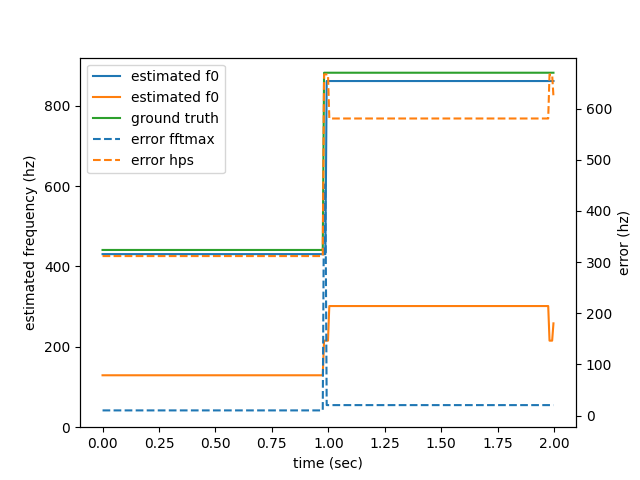
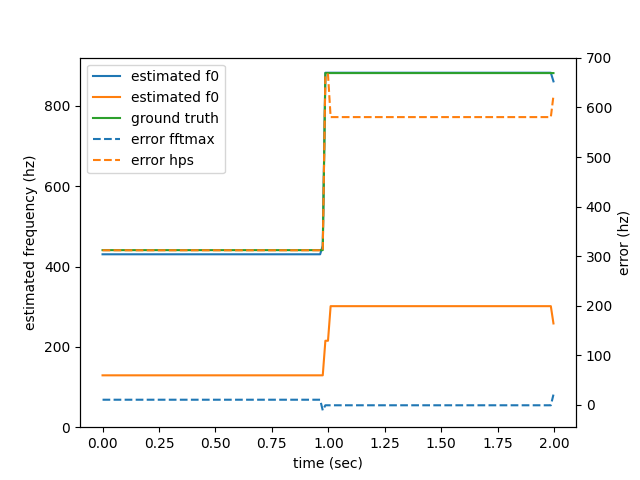
final

diff --git a/ass3solution.py b/ass3solution.py
@@ -4,6 +4,7 @@ import scipy.io.wavfile
 import scipy.signal
 from matplotlib import pyplot as plt
 import os.path
+import math
 from glob import glob
 
 T = np.ndarray  # for autocomplete engine, will be deleted before submission
@@ -12,26 +13,22 @@ HOP_SIZE = BLOCK_SIZE >> 1
 DB_TRUNCATION_THRESHOLD = -100
 
 
-# proudly plagiarized myself, again, by simply copying from assg 1.
-def block_audio(x, blockSize, hopSize, fs) -> Tuple[T, T]:
-    """plain implementation of spliting input signal into blocks of frames."""
+def  block_audio(x,blockSize,hopSize,fs):
+    # allocate memory
+    numBlocks = math.ceil(x.size / hopSize)
+    xb = np.zeros([numBlocks, blockSize])
+    # compute time stamps
+    t = (np.arange(0, numBlocks) * hopSize) / fs
 
-    # equivalent to num_of_blocks = ceil(x / hopSize)
-    num_of_blocks = len(x) // hopSize
-    if len(x) % hopSize:
-        num_of_blocks += 1
-    x = np.pad(x, (0, (num_of_blocks - 1) * hopSize + blockSize - len(x)))
+    x = np.concatenate((x, np.zeros(blockSize)),axis=0)
 
-    xb = np.zeros((num_of_blocks, blockSize))
-    time_in_sec = np.zeros((num_of_blocks,))
+    for n in range(0, numBlocks):
+        i_start = n * hopSize
+        i_stop = np.min([x.size - 1, i_start + blockSize - 1])
 
-    for i in range(num_of_blocks):
-        # i-th block
-        l = i * hopSize
-        time_in_sec[i] = l / fs
-        xb[i] = x[l : l + blockSize]
+        xb[n][np.arange(0,blockSize)] = x[np.arange(i_start, i_stop + 1)]
 
-    return xb, time_in_sec
+    return (xb,t)
 
 
 # plagiarized from alex
@@ -124,19 +121,40 @@ def get_f0_from_Hps(X, fs, order):
 
 # --- B.2 ---
 def track_pitch_hps(x, blockSize, hopSize, fs):
-    xb, time_in_sec = block_audio(x, blockSize, hopSize, fs)
-    Xb, f_in_hz = compute_spectrogram(xb, fs)
+    hp_filter = scipy.signal.butter(
+        N=20, Wn=50, btype="highpass", output="sos", fs=fs
+    )
+    hp_x = scipy.signal.sosfilt(hp_filter, x)
+    xb, timeInSec = block_audio(hp_x, blockSize, hopSize, fs)
+    Xb, fInHz = compute_spectrogram(xb, fs)
     f0 = get_f0_from_Hps(Xb, fs, order=4)
-    return f0, time_in_sec
+    return f0, timeInSec
 
 
 # --- C.1 ---
 def extract_rms(xb):
-    rms = np.maximum(
-        20 * np.log10(np.sqrt(np.mean(xb ** 2, axis=-1))),
-        DB_TRUNCATION_THRESHOLD,
-    )
-    return rms
+    return (FeatureTimeRms(xb))
+
+
+def FeatureTimeRms(xb):
+
+    # number of results
+    numBlocks = xb.shape[0]
+
+    # allocate memory
+    vrms = np.zeros(numBlocks)
+
+    for n in range(0, numBlocks):
+        # calculate the rms
+        vrms[n] = np.sqrt(np.dot(xb[n,:], xb[n,:]) / xb.shape[1])
+
+    # convert to dB
+    epsilon = 1e-5  # -100dB
+
+    vrms[vrms < epsilon] = epsilon
+    vrms = 20 * np.log10(vrms)
+
+    return (vrms)
 
 
 # --- C.2 ---
@@ -168,11 +186,7 @@ def eval_voiced_fn(estimation, annotation):
 # --- D.3 ---
 def eval_pitchtrack_v2(estimation, annotation):
     # return RMS of cent
-    err_cent_rms = 0
-    for a, b in zip(estimation, annotation):
-        if a and b:
-            err_cent_rms += (1200 * np.log2(a / b)) ** 2
-    err_cent_rms = (err_cent_rms / len(estimation)) ** 0.5
+    err_cent_rms = eval_pitchtrack(estimation, annotation)
     pfp = eval_voiced_fp(estimation, annotation)
     pfn = eval_voiced_fn(estimation, annotation)
     return err_cent_rms, pfp, pfn
@@ -192,7 +206,7 @@ def executeassign3():
         block_audio(ref_, BLOCK_SIZE, HOP_SIZE, fs)[0], axis=1
     )
 
-    f0_fftmax, time_in_sec = track_pitch_fftmax(sin_, BLOCK_SIZE, HOP_SIZE, fs)
+    f0_fftmax, time_in_sec = track_pitch_fftmax(sin_, 2048, 512, fs)
     f0_hps, _ = track_pitch_hps(sin_, BLOCK_SIZE, HOP_SIZE, fs)
     # plot
     fig, ax = plt.subplots()
@@ -390,15 +404,15 @@ def amdf_weighted_acf(inputVector, bIsNormalized=True):
 
 
 def eval_track_pitch(complete_path_to_data_folder):
-    wavpath = np.array([])
-    txtpath = np.array([])
+    wav_path = np.array([])
+    txt_path = np.array([])
     for full_filepath in os.listdir(complete_path_to_data_folder):
         if full_filepath.endswith(".wav"):
             wav_path = np.append(
-                wavpath, complete_path_to_data_folder + full_filepath
+                wav_path, complete_path_to_data_folder + full_filepath
             )
             txt_path = np.append(
-                txtpath,
+                txt_path,
                 complete_path_to_data_folder
                 + full_filepath.split(".")[0]
                 + ".f0.Corrected.txt",
@@ -406,12 +420,12 @@ def eval_track_pitch(complete_path_to_data_folder):
 
     blockSize = 1024
     hopSize = 512
-    errCentRms = np.zeros((3, 2, 3))
+    errCentRms = np.zeros((3, 2, 3, 3))
     for i, method in enumerate(["acf", "max", "hps"]):
         for j, voicingThres in enumerate([-40, -20]):
             all_estimates = np.array([])
             all_groundtruths = np.array([])
-            for wavfile, txtfile in zip(wav_path, txt_path):
+            for k, (wavfile, txtfile) in enumerate(zip(wav_path, txt_path)):
                 fs, x = tool_read_audio(wavfile)
                 file = np.loadtxt(txtfile)
                 groundtruths = file[:, 2]
@@ -420,9 +434,7 @@ def eval_track_pitch(complete_path_to_data_folder):
                 )
                 all_estimates = np.append(all_estimates, estimates)
                 all_groundtruths = np.append(all_groundtruths, groundtruths)
-            errCentRms[i, j] = eval_pitchtrack_v2(
-                all_estimates, all_groundtruths
-            )
+                errCentRms[i, j, k] = eval_pitchtrack_v2(estimates, groundtruths)
     return errCentRms
 
 
@@ -580,7 +592,7 @@ def eval_pitchtrack(estimateInHz, groundtruthInHz):
 
     diffInCent = 100*(convert_freq2midi(estimateInHz) - convert_freq2midi(groundtruthInHz))
 
-    rms = np.sqrt(np.mean(diffInCent[groundtruthInHz != 0]**2))
+    rms = np.sqrt(np.mean(diffInCent ** 2))
     return (rms)
 
 
@@ -592,18 +604,20 @@ def run_evaluation(complete_path_to_data_folder):
         filename, ext = os.path.splitext(filename_ext)
         fs, x = scipy.io.wavfile.read(full_filename)
 
+        track_pitch_functions = (
+        track_pitch_acf,
+        track_pitch_fftmax,
+        track_pitch_hps,
+        track_pitch_mod,
+    )
+
         # first calculate f0
-        for track_pitch_func in (
-            track_pitch_acf,
-            track_pitch_fftmax,
-            track_pitch_hps,
-            track_pitch_mod,
-        ):
+        for track_pitch_func in track_pitch_functions:
             f0, _ = track_pitch_func(x, BLOCK_SIZE, HOP_SIZE, fs)
-            xb, _ = block_audio(x, BLOCK_SIZE, HOP_SIZE, fs)
+            xb, _ = block_audio(x / np.max(np.abs(x)), BLOCK_SIZE, HOP_SIZE, fs)
             rms = extract_rms(xb)
-            voicing_mask = create_voicing_mask(rms, -30)
-            masked_f0 = f0 * voicing_mask
+            voicing_mask = create_voicing_mask(rms, -20)
+            masked_f0 = apply_voicing_mask(f0, voicing_mask)
 
             # then read file
             ground_truth_f0, ground_truth_time_in_sec = [], []
@@ -624,6 +638,15 @@ def run_evaluation(complete_path_to_data_folder):
                 "RMS of %s on %s: %.5f"
                 % (filename, track_pitch_func.__name__, rms_s[-1])
             )
+    
+
+    for i, track_pitch_func in enumerate(track_pitch_functions):
+        rm_func = 0
+        n_s_func = 0
+        for j in range(i, len(rms_s), len(track_pitch_functions)):
+            rm_func += rms_s[j] ** 2 * n_s[j]
+            n_s_func += n_s[j]
+        print("RMS for method %s: %.5f" % (track_pitch_func.__name__, np.sqrt(rm_func / n_s_func)))
 
     overall_err_cent_rms = np.sqrt(
         sum(r ** 2 * n for r, n in zip(rms_s, n_s)) / sum(n_s)
@@ -635,7 +658,30 @@ def run_evaluation(complete_path_to_data_folder):
 if __name__ == "__main__":
 
     run_evaluation("./trainData/")
-
+    # complete_path_to_data_folder = "./trainData/"
+    # wav_path = np.array([])
+    # txt_path = np.array([])
+    # for full_filepath in os.listdir(complete_path_to_data_folder):
+    #     if full_filepath.endswith(".wav"):
+    #         print(full_filepath)
+    #         wav_path = np.append(
+    #             wav_path, complete_path_to_data_folder + full_filepath
+    #         )
+    #         txt_path = np.append(
+    #             txt_path,
+    #             complete_path_to_data_folder
+    #             + full_filepath.split(".")[0]
+    #             + ".f0.Corrected.txt",
+    #         )
+        
+    # print(wav_path, txt_path)
+    # rms = eval_track_pitch("./trainData/")
+    # for i, func in enumerate((track_pitch_acf, track_pitch_fftmax, track_pitch_hps)):
+    #     for j, threshold in enumerate((-40, -20)):
+    #         for k, (wav_file, txt_file) in enumerate(zip(wav_path, txt_path)):
+    #             filepath, filename_ext = os.path.split(wav_file)
+    #             filename, ext = os.path.splitext(filename_ext)
+    #             print("%s, %ddB, %s: rms=%.5f, pfp=%.2f, pfn=%.2f" % (func.__name__, threshold, filename, rms[i, j, k, 0], rms[i, j, k, 1], rms[i, j, k, 2]))
     # executeassign3()
 
     # fs, x = tool_read_audio("trainData/01-D_AMairena.wav")
